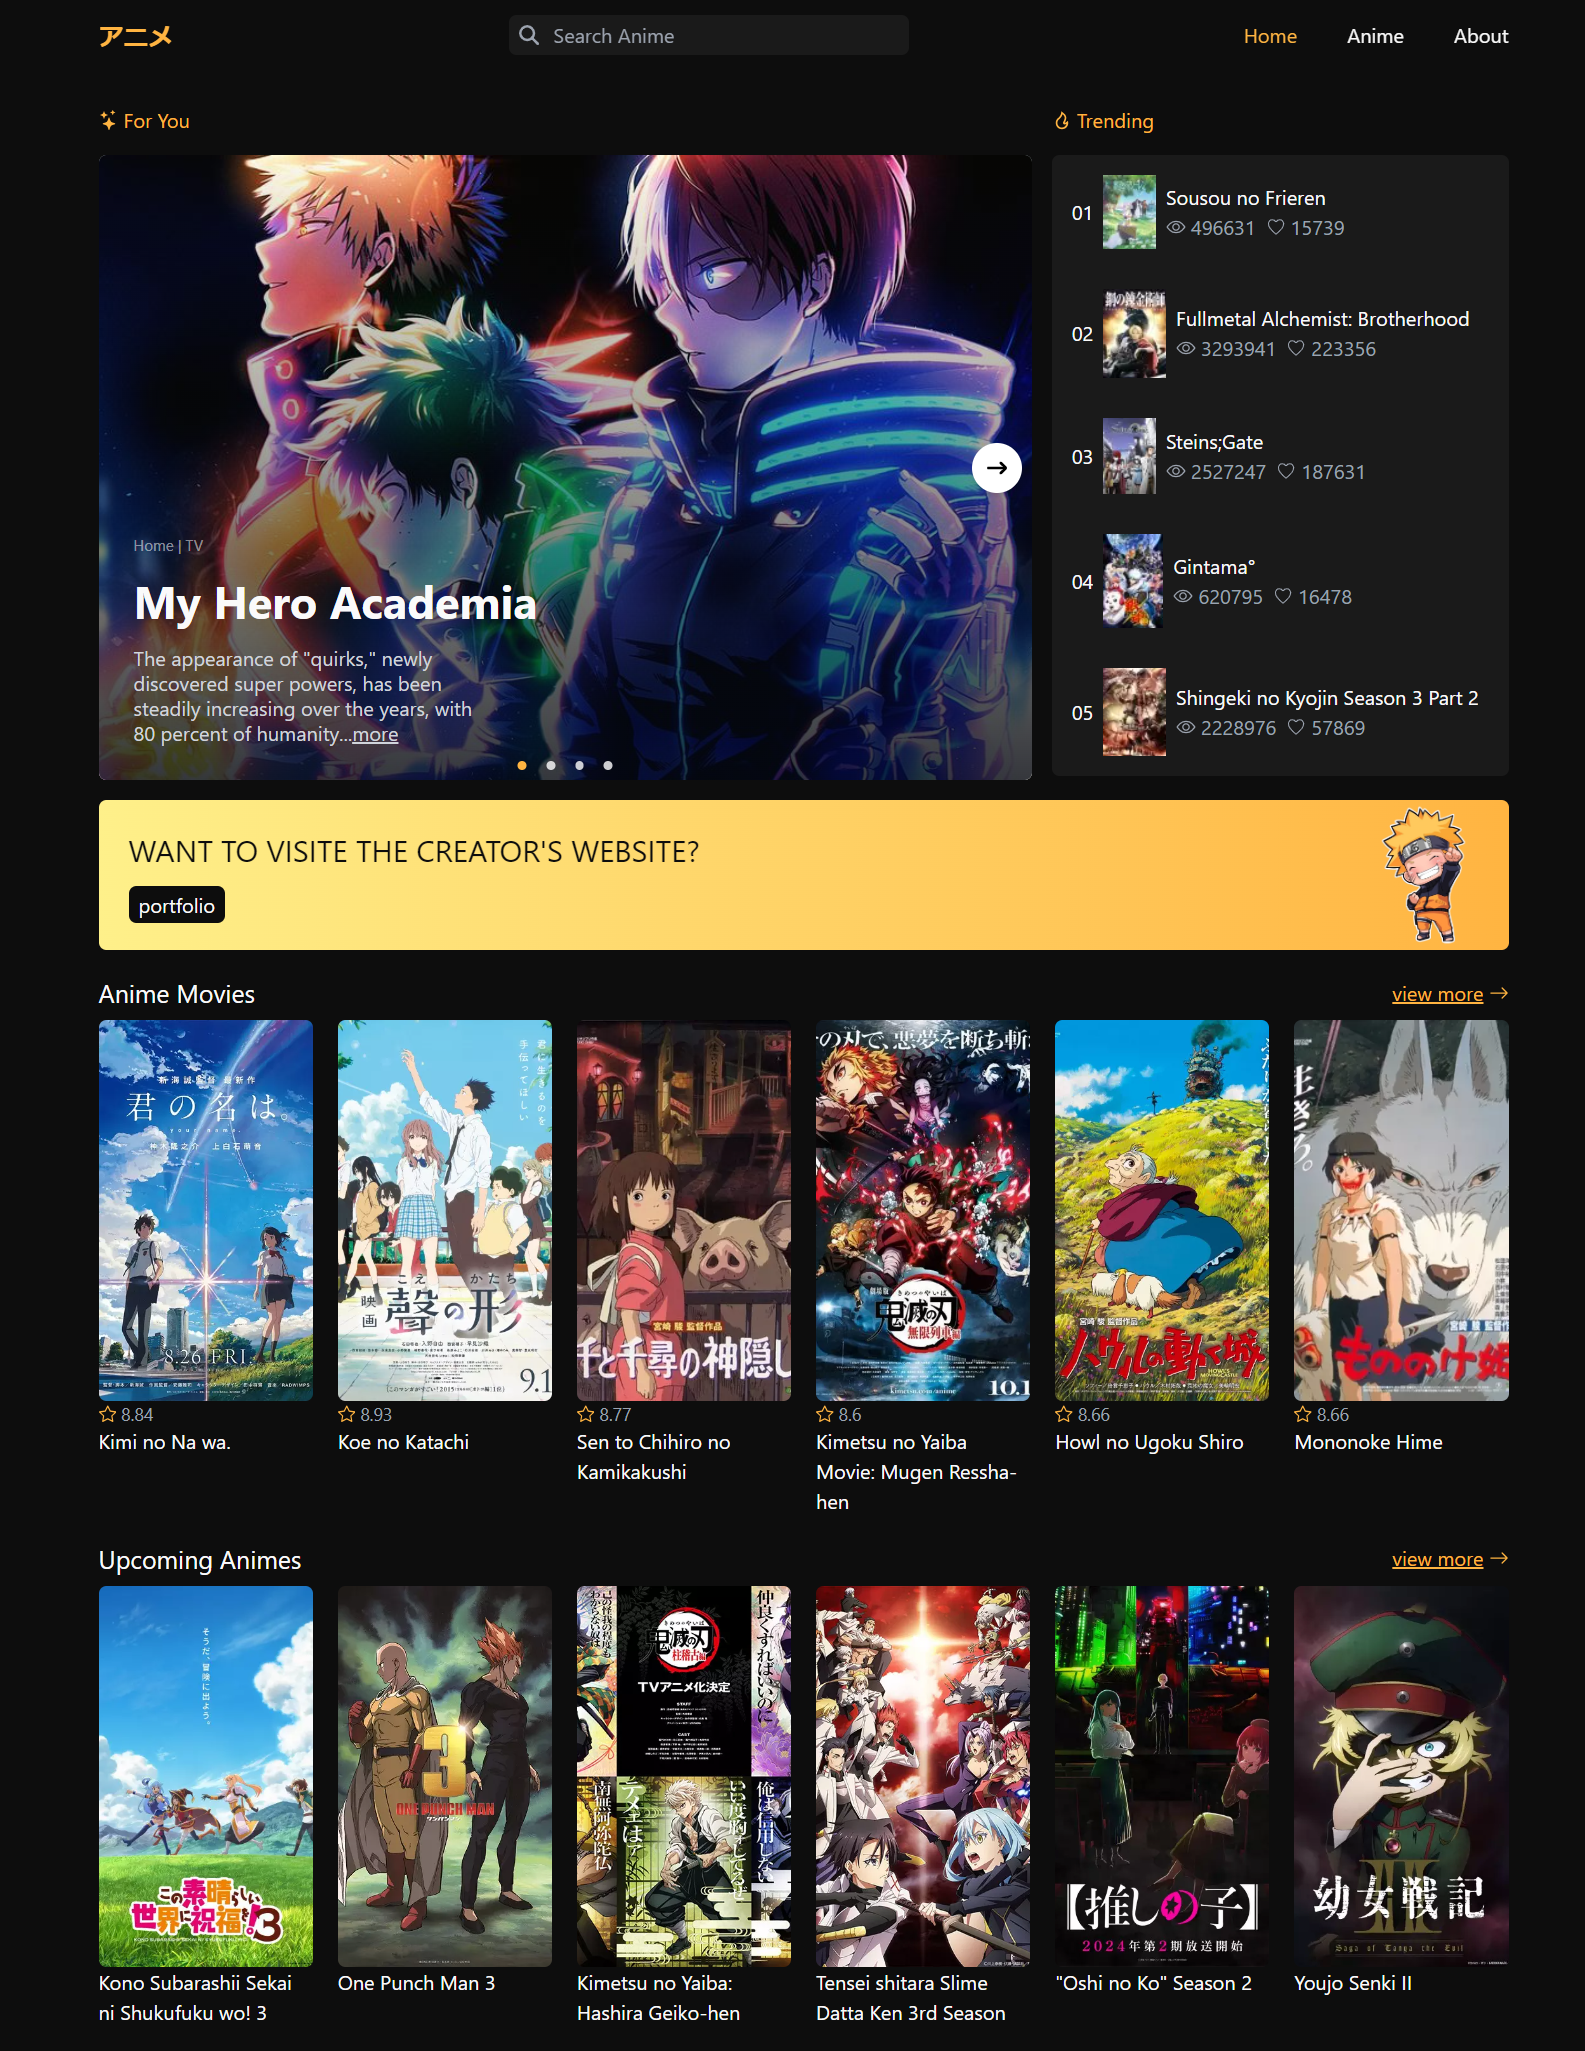
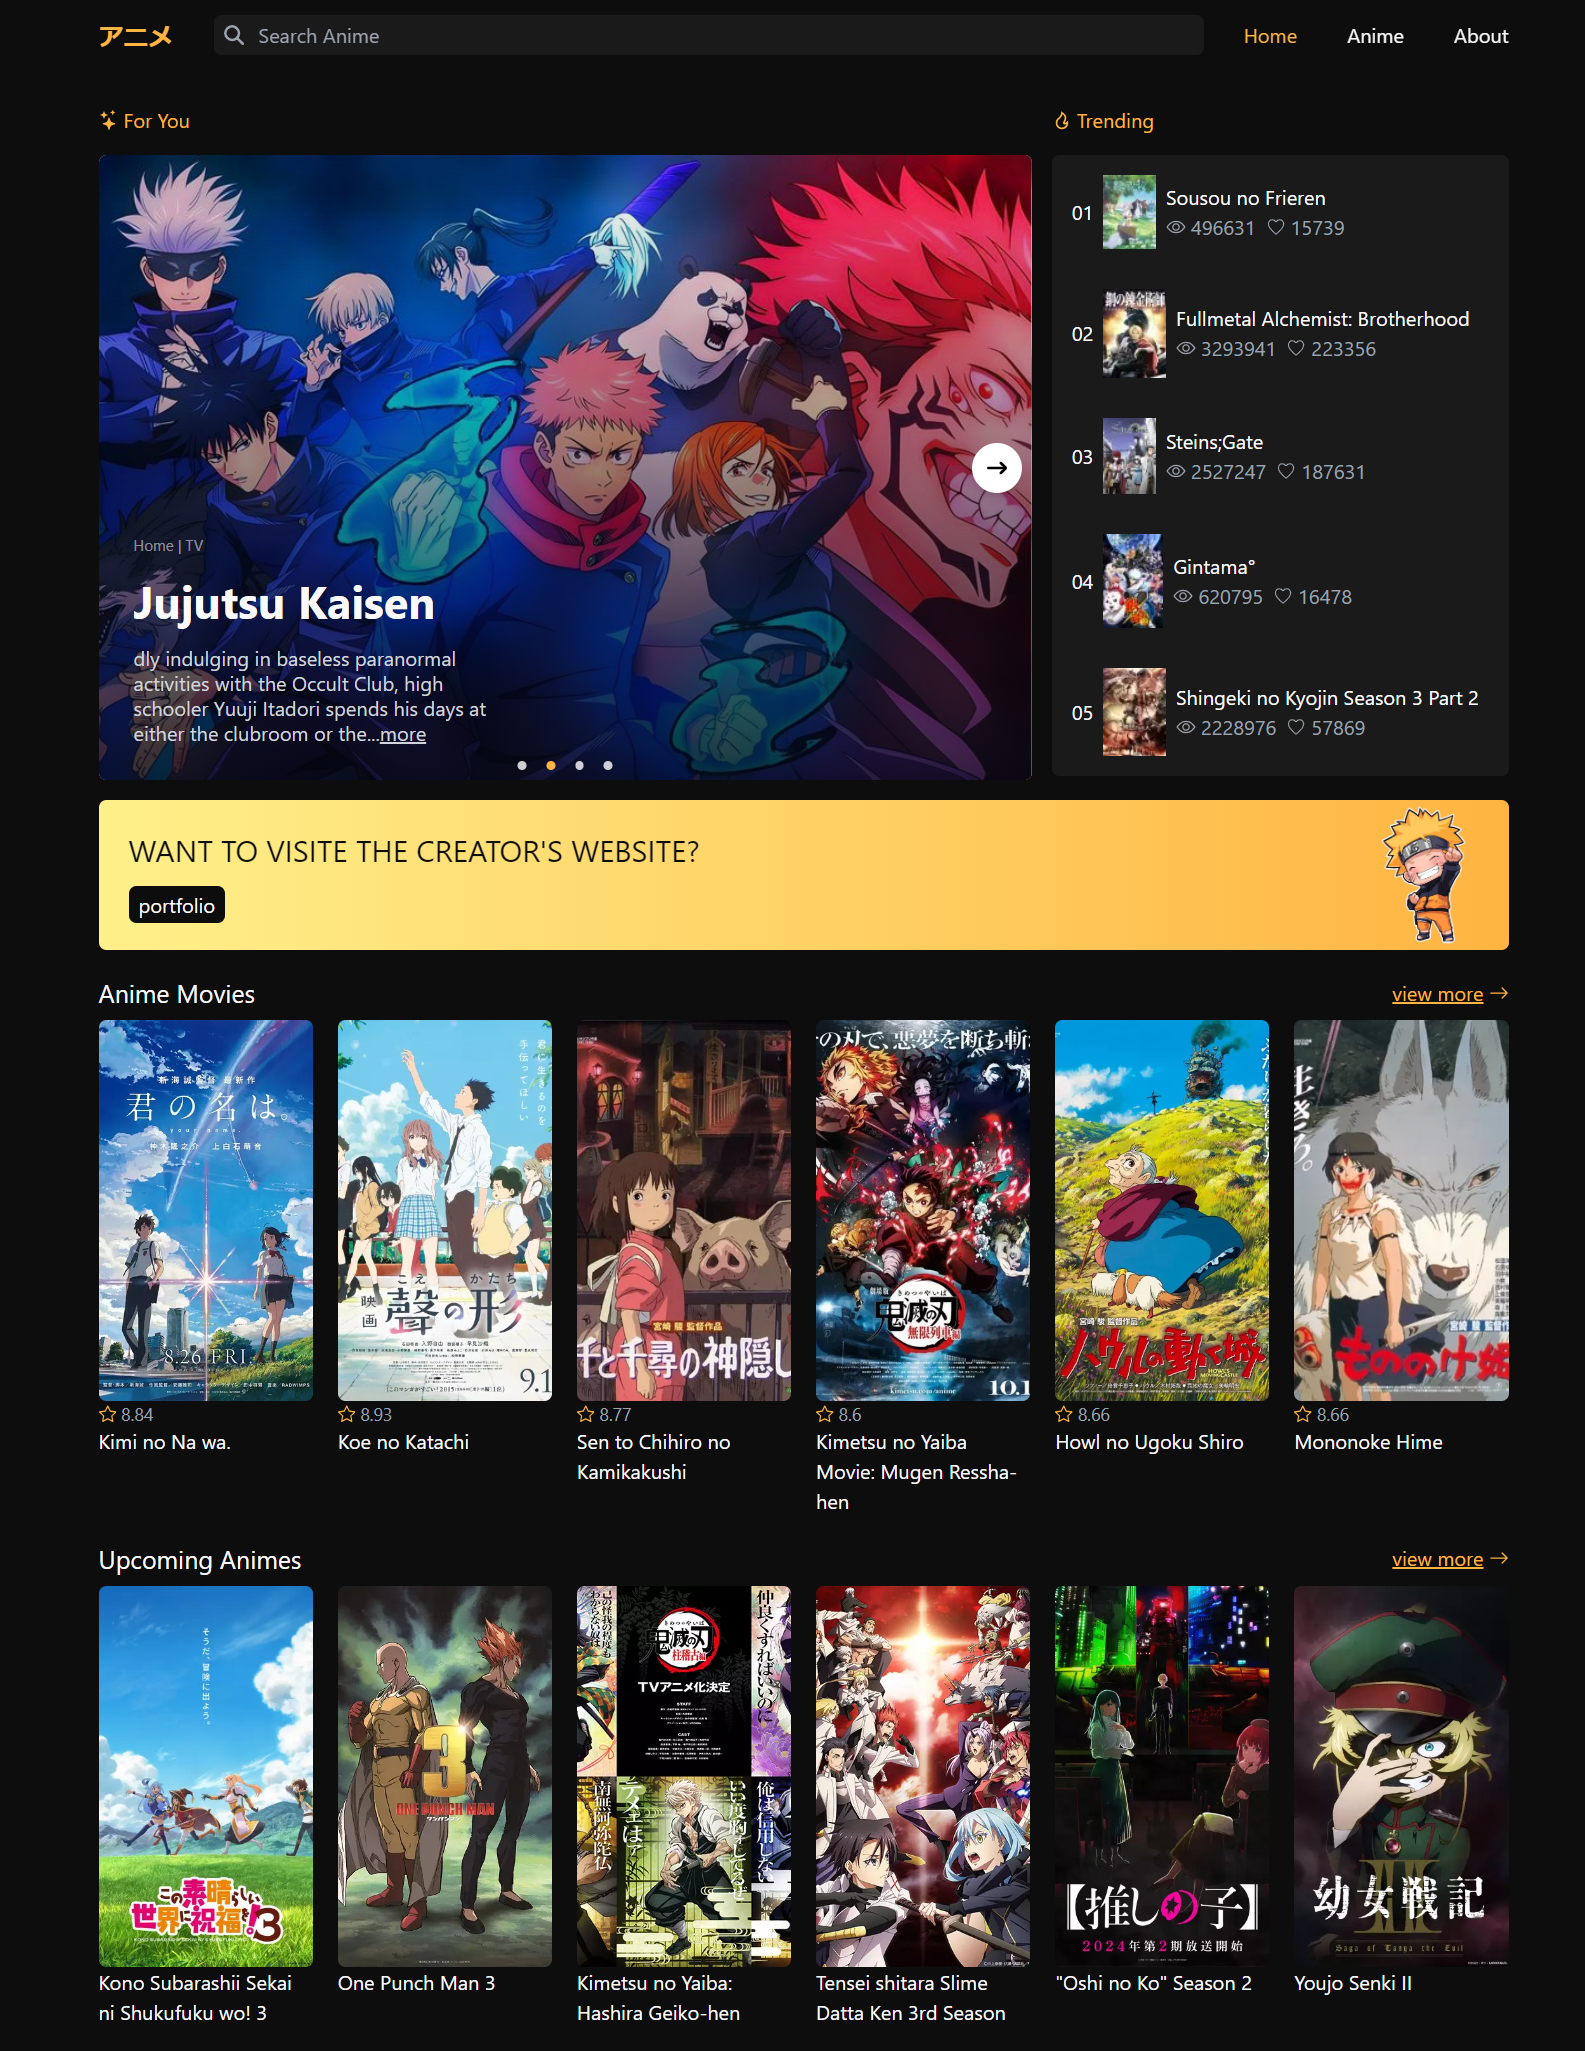
responsive nave bar

Changed region(s): [[0.0618, 0.0624, 0.6492, 0.4057]]

diff --git a/src/components/Header.tsx b/src/components/Header.tsx
@@ -1,4 +1,4 @@
-import { useRef } from "react";
+import { useRef, useState } from "react";
 import { FaMagnifyingGlass } from "react-icons/fa6";
 import {
   Link,
@@ -7,11 +7,13 @@ import {
   useSearchParams,
 } from "react-router-dom";
 import { navLinks } from "../constants/index";
+import { IoClose, IoMenuOutline } from "react-icons/io5";
 
 const Header = () => {
   const { pathname } = useLocation();
   const searchRef = useRef<HTMLInputElement>(null);
   const navigate = useNavigate();
+  const [toggle, setToggle] = useState(false);
   const [searchParams, setSearchParams] = useSearchParams();
 
   const handleSubmit = (e: React.FormEvent<HTMLFormElement>) => {
@@ -47,7 +49,7 @@ const Header = () => {
       </form>
 
       <nav>
-        <ul className="flex gap-10">
+        <ul className="hidden gap-10 sm:flex">
           {navLinks.map((link) => (
             <li key={link.id}>
               <Link
@@ -63,6 +65,33 @@ const Header = () => {
           ))}
         </ul>
       </nav>
+
+      <button onClick={() => setToggle(!toggle)} className="block sm:hidden">
+        {toggle ? <IoClose size={28} /> : <IoMenuOutline size={28} />}
+      </button>
+
+      {toggle && (
+        <nav className="absolute right-0 top-16 block rounded-md bg-darkGray sm:hidden">
+          <ul className="flex flex-col p-4">
+            {navLinks.map((link) => (
+              <li
+                className="border-b border-gray-400 py-3 last:border-none"
+                key={link.id}
+              >
+                <Link
+                  to={link.path}
+                  aria-current={pathname == link.path && `page`}
+                  className={`${
+                    pathname == link.path ? "text-primary" : ""
+                  } px-10  capitalize`}
+                >
+                  {link.text}
+                </Link>
+              </li>
+            ))}
+          </ul>
+        </nav>
+      )}
     </header>
   );
 };

diff --git a/src/pages/Home.tsx b/src/pages/Home.tsx
@@ -15,13 +15,13 @@ export const Home = () => {
         options={{ type: "movie" }}
         title="Anime Movies"
         path={`/anime?type=movie&order_by=popularity`}
-        className="my-5"
+        className="my-6"
       />
       <AnimeSuspense
         options={{ type: "tv", status: "upcoming" }}
         title="Upcoming Animes"
         path={`/anime?type=tv&status=upcoming`}
-        className="my-5"
+        className="my-6"
       />
     </main>
   );

diff --git a/src/components/Recommendation.tsx b/src/components/Recommendation.tsx
@@ -18,7 +18,7 @@ const Recommendation = ({ className }: Props) => {
 
   return (
     <div className={`${className} max-h-full self-stretch`}>
-      <h2 className="mb-4 flex items-center gap-1 text-primary">
+      <h2 className="mb-4 flex items-center gap-1 overflow-hidden text-primary">
         <BsStars />
         For You
       </h2>

diff --git a/src/pages/About.tsx b/src/pages/About.tsx
@@ -2,7 +2,7 @@ import welcom from "../../public/hello-removebg.png";
 
 const About = () => {
   return (
-    <main className="flex gap-2 text-gray-300">
+    <main className="block gap-2 text-gray-300 sm:flex">
       <div>
         <h1 className="mb-4 text-3xl text-light">About</h1>
         <p>
